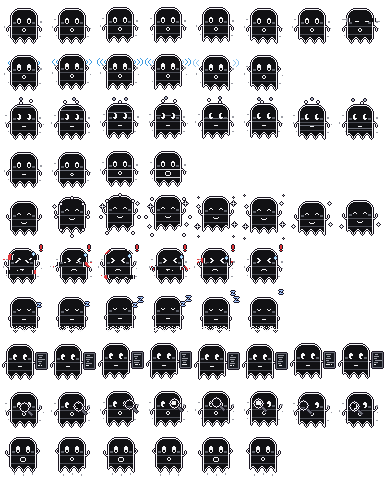
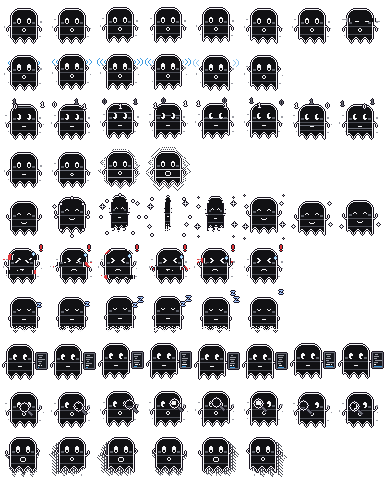
feat(pets): Gigi's signature effects
Gigi-only touches the other pets do not share: a ring of 1s and 0s
orbits its crown while it thinks (passing behind the head), it does a
full turn in the air on success, a dithered halo shimmers around it
while it talks loud, a fading afterimage trails it when it is carried,
and its terminal fills a blue progress bar while it works.

diff --git a/scripts/pets/build_pets.py b/scripts/pets/build_pets.py
@@ -944,9 +944,32 @@ def gigi_pose(state: str, i: int) -> Pose:
     return pose
 
 
+#: Thinking: the bits Gigi is made of, as 3 x 5 glyphs.
+_GIGI_DIGITS = {
+    "1": (".#.", "##.", ".#.", ".#.", "###"),
+    "0": (".#.", "#.#", "#.#", "#.#", ".#."),
+}
+_GIGI_RING = ("1", "0", "1")
+
+
+def _gigi_bit_ring(f: Frame, i: int, *, front: bool) -> None:
+    """Three bits orbit the head like a planet's ring; ``front`` picks the half."""
+    for k, digit in enumerate(_GIGI_RING):
+        angle = 2.0 * math.pi * (i / 8.0 + k / 3.0)
+        depth = math.sin(angle)
+        if (depth >= 0) != front:
+            continue
+        x = math.floor(24 + 18 * math.cos(angle)) - 1
+        y = math.floor(8 + 3 * depth) - 2  # around the crown, clear of the eyes
+        color = GIGI_WHITE if front else GIGI_SCAN
+        f.glyph(x, y, _GIGI_DIGITS[digit], {"#": color})
+
+
 def draw_gigi(f: Frame, pose: Pose) -> None:
     with f.offset(pose.dx, pose.dy):
         body = _gigi_body(_gigi_hem_phase(pose))
+        if pose.state == "thinking":
+            _gigi_bit_ring(f, pose.i, front=False)
         f.part(body, shade(body, GIGI_BODY, rim=GIGI_WHITE))
         for side in _gigi_arms(pose):
             f.paint(outer_ring(side) - body, OUTLINE)
@@ -965,6 +988,8 @@ def draw_gigi(f: Frame, pose: Pose) -> None:
             draw_eyes(f, pose.eyes, (17, 18), (27, 18), GIGI_EYES)
         _gigi_mouth(f, pose.mouth)
         _gigi_bits(f, pose)
+        if pose.state == "thinking":
+            _gigi_bit_ring(f, pose.i, front=True)
 
 
 def _gigi_eyes_looking(f: Frame, look: int) -> None:
@@ -1061,6 +1086,8 @@ _GIGI_ERROR_GLITCH = (
 )
 GIGI_GLITCH_RED = hexc("#e5383b")
 GIGI_SCREEN = hexc("#16181e")
+#: The one accent Gigi wears: the app's blue, on the terminal's progress bar.
+GIGI_PROGRESS = hexc("#3d9be0")
 
 #: Working: code lines on the terminal (lengths), scrolling up one a frame.
 _GIGI_CODE = (5, 3, 7, 4, 2, 6, 5, 3)
@@ -1083,6 +1110,7 @@ def _gigi_terminal_fx(f: Frame, pose: Pose) -> None:
             f.paint(rect(38 + indent, y, 37 + indent + length, y), color)
             if newest and pose.i % 2 == 0:
                 f.paint({(39 + indent + length, y)}, GIGI_WHITE)  # the cursor
+        f.paint(rect(38, 31, 38 + pose.i, 31), GIGI_PROGRESS)
 
 
 def _gigi_lens_disc(cx: int, cy: int) -> Mask:
@@ -1128,7 +1156,63 @@ def magnify(img: Image.Image, cx: int, cy: int, radius: int = 4, zoom: int = 2) 
     return out
 
 
+#: Success: a full turn in the air, as the body's width per hop frame.
+_GIGI_SPIN = (1.0, 1.0, 0.6, 0.2, 0.6, 1.0, 1.0, 1.0)
+
+
+def squash_x(img: Image.Image, factor: float) -> Image.Image:
+    """Narrow the cell around its centre line: a figure turning on the spot."""
+    width = max(2, round(CELL * factor))
+    if width >= CELL:
+        return img
+    out = Image.new("RGBA", (CELL, CELL), (0, 0, 0, 0))
+    out.paste(img.resize((width, CELL), Image.NEAREST), ((CELL - width) // 2, 0))
+    return out
+
+
+def _opaque(img: Image.Image) -> Mask:
+    return {(x, y) for y in range(CELL) for x in range(CELL) if img.getpixel((x, y))[3] >= 128}
+
+
+def ghost_aura(img: Image.Image, rings: int, color: RGBA) -> Image.Image:
+    """Dithered halos ``rings`` deep around the figure: a ghost's voice shimmer."""
+    out = img.copy()
+    covered = _opaque(img)
+    covered |= outer_ring(covered)  # one clear pixel between figure and halo
+    for depth in range(rings):
+        shell = outer_ring(covered)
+        for x, y in shell:
+            if 0 <= x < CELL and 0 <= y < CELL and (x + y + depth) % 2 == 0:
+                out.putpixel((x, y), color)
+        covered |= shell
+        covered |= outer_ring(covered)  # and one between halos
+    return out
+
+
+def afterimage(img: Image.Image, trail: Sequence[tuple[int, int]], color: RGBA) -> Image.Image:
+    """Dithered copies of the figure at each ``(dx, dy)`` behind it, fading out."""
+    out = img.copy()
+    body = _opaque(img)
+    for n, (dx, dy) in enumerate(trail):
+        step = 2 + n  # every 2nd, then every 3rd pixel
+        for x, y in body:
+            tx, ty = x + dx, y + dy
+            if (tx, ty) in body or not (0 <= tx < CELL and 0 <= ty < CELL):
+                continue
+            if (tx + 2 * ty) % step == 0 and out.getpixel((tx, ty))[3] < 128:
+                out.putpixel((tx, ty), color)
+    return out
+
+
 def gigi_post(img: Image.Image, pose: Pose) -> Image.Image:
+    if pose.state == "success":
+        return squash_x(img, _GIGI_SPIN[pose.i])
+    if pose.state == "talking" and pose.mouth in ("open", "wide"):
+        return ghost_aura(img, 1 if pose.mouth == "open" else 2, GIGI_BAND)
+    if pose.state == "held":
+        swing = _GIGI_SWAY[pose.i] - _GIGI_SWAY[pose.i - 1]
+        trail = [(-3 * swing, 2), (-6 * swing, 4)] if swing else [(0, 2), (0, 4)]
+        return afterimage(img, trail, GIGI_BAND)
     if pose.state == "error":
         slices = [(y0 + pose.dy, y1 + pose.dy, dx) for y0, y1, dx in _GIGI_ERROR_GLITCH[pose.i]]
         return glitch_slices(img, slices, GIGI_GLITCH_RED)
@@ -1169,6 +1253,7 @@ GIGI = PetDesign(
     fps=_GIGI_FPS,
     fx={
         "success": _gigi_success_fx,
+        "thinking": lambda f, pose: None,  # the bit ring is drawn with the body
         "working": _gigi_terminal_fx,
         "searching": _gigi_lens_fx,
         "held": _gigi_held_fx,
